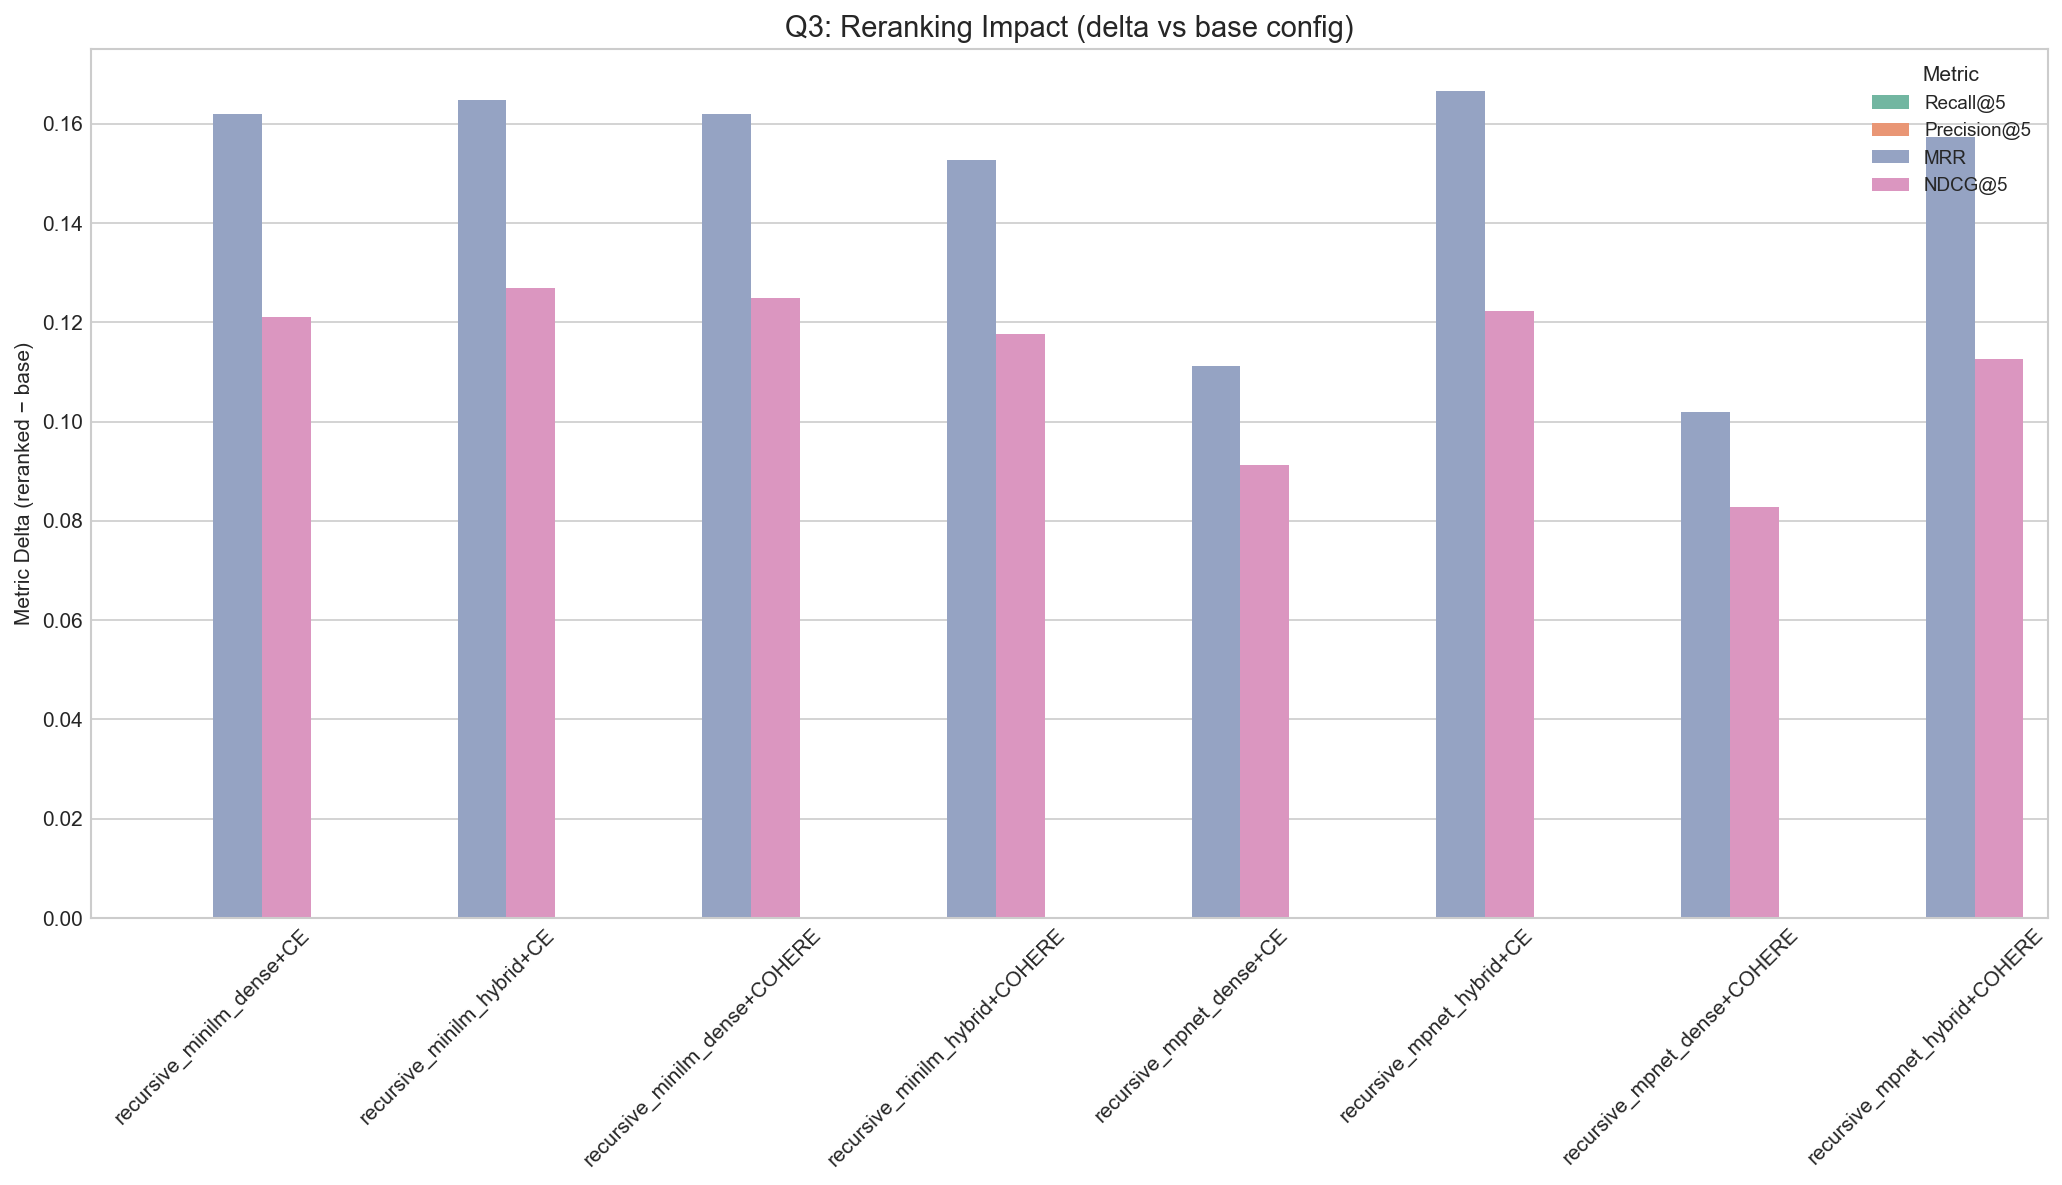
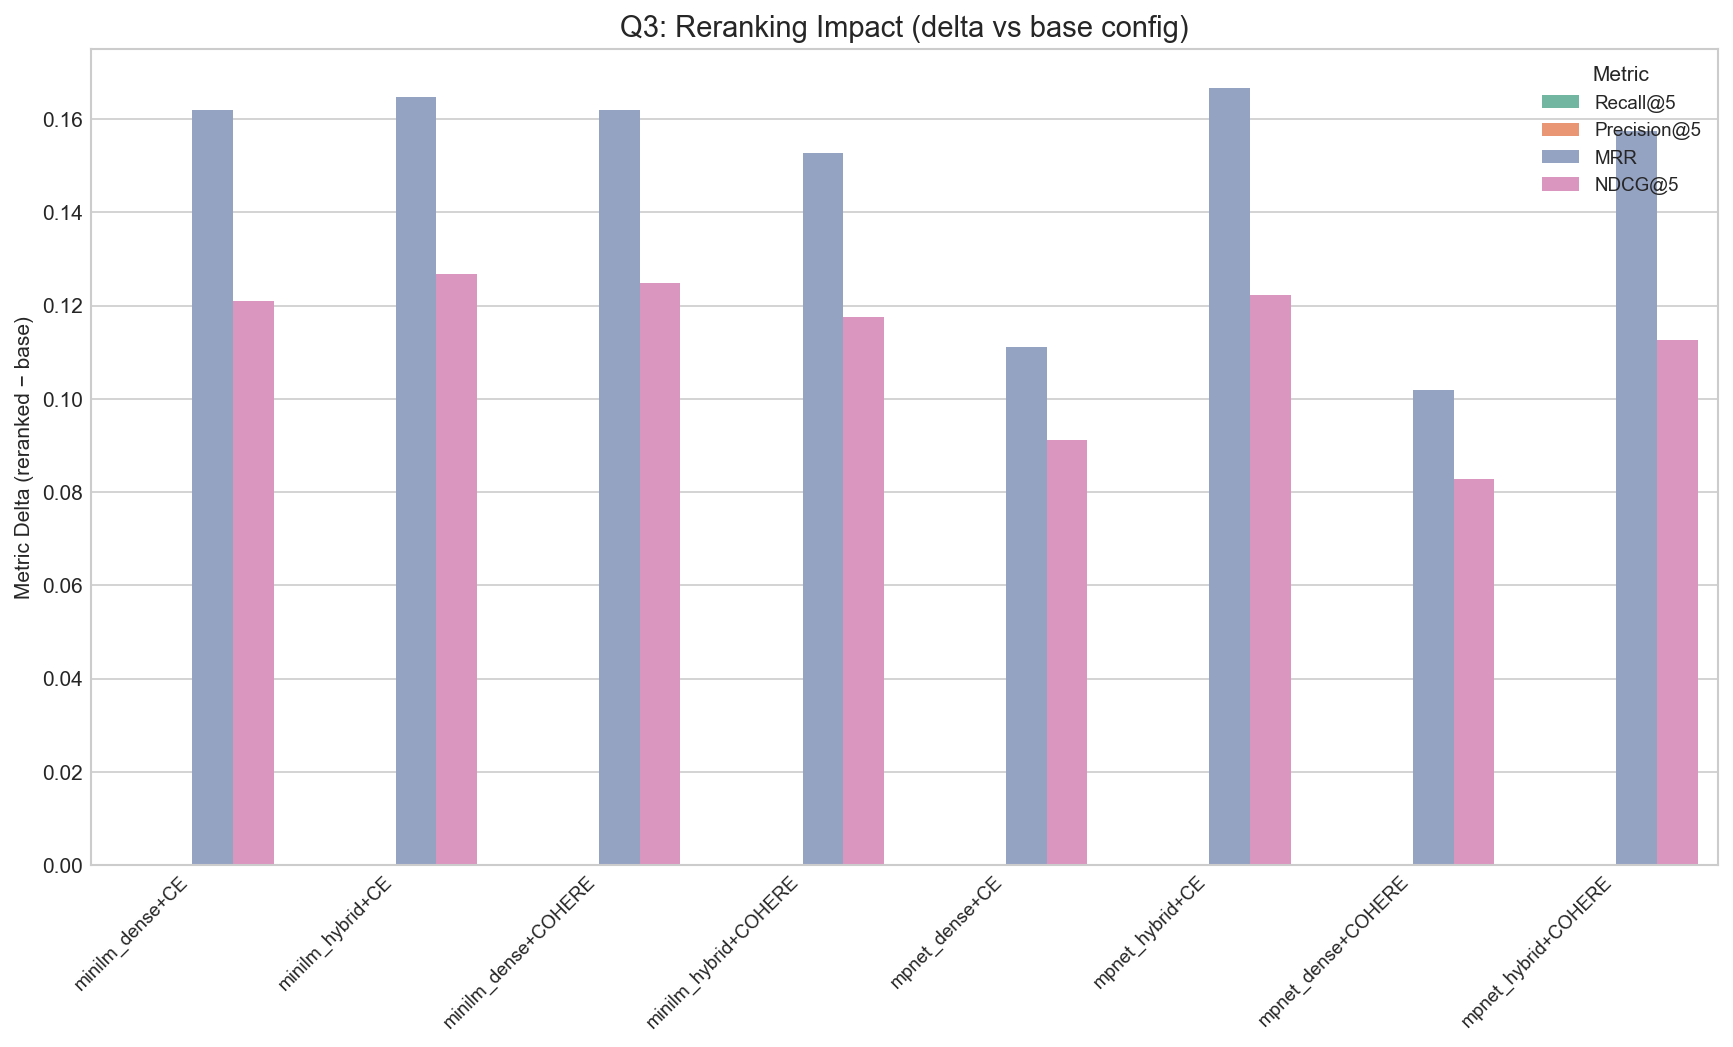
fix(p5): fix clipped x-axis labels in chunking and reranking charts
- Shorten chunking strategy names (emb_semantic, head_semantic, slide_window)
- Shorten reranking labels to embedder_retriever+reranker format
- Rotate labels 45° with ha="right" alignment
- Add bottom margin via subplots_adjust to prevent clipping

diff --git a/src/visualization.py b/src/visualization.py
@@ -285,7 +285,8 @@ def plot_reranking_comparison(df: pd.DataFrame, output_dir: Path) -> Path:
                 base_row = match.iloc[0]
                 reranker = rr_row["reranker_type"]
                 short = "CE" if reranker == "cross_encoder" else reranker.upper()
-                pair_label = f"{rr_row['chunking_strategy']}_{rr_row['embedding_model']}_{rr_row['retriever_type']}+{short}"
+                # Shorten: all reranking configs use recursive, so show embedder_retriever+reranker
+                pair_label = f"{rr_row['embedding_model']}_{rr_row['retriever_type']}+{short}"
                 for m in _METRICS:
                     pairs.append({
                         "config": pair_label,
@@ -307,9 +308,12 @@ def plot_reranking_comparison(df: pd.DataFrame, output_dir: Path) -> Path:
         ax.set_title("Q3: Reranking Impact (delta vs base config)", fontsize=14)
         ax.set_ylabel("Metric Delta (reranked − base)")
         ax.set_xlabel("")
-        ax.tick_params(axis="x", rotation=45)
+        for label in ax.get_xticklabels():
+            label.set_rotation(45)
+            label.set_ha("right")
+            label.set_fontsize(9)
         ax.legend(title="Metric", fontsize=9)
-        fig.tight_layout()
+        fig.subplots_adjust(bottom=0.20)
         return _save_fig(fig, output_dir, "reranking_comparison")
 
 
